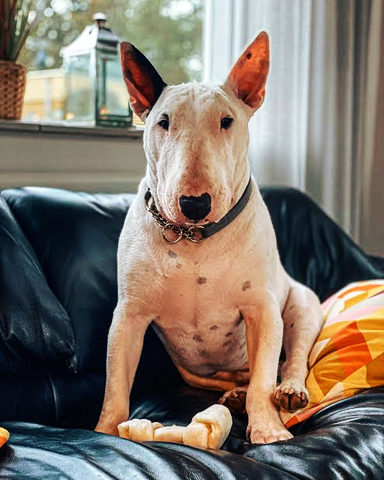
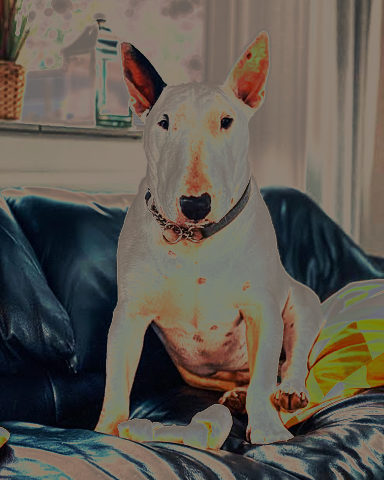
refactor(curves)!: fold solarize into curves
Both reverse the tones above the middle. `curves` gains the preset `solarize`
(master knots 0, 0.25, 0.5, 0.25, 0): the tent solarize traced, with a rounded
peak instead of a hard fold. At 480 px against solarize threshold 0.5 the
maximum difference is 0.037 (mean 0.013) and the two read the same.

BREAKING CHANGE: `solarize` is removed; use `curves` with
`preset = "solarize"`. `threshold` has no equivalent: move the curve's
`midtones`, `shadows` and `highlights` to fold elsewhere.

diff --git a/tests/effects/curves/test_curves.py b/tests/effects/curves/test_curves.py
@@ -4,6 +4,7 @@ import numpy as np
 import pytest
 
 from bullterrier_image.core import registry
+from bullterrier_image.recipe import Step
 
 NAME = "curves"
 ANCHORS = (0.0, 0.25, 0.5, 0.75, 1.0)  # where the five master points sit on the input axis, as documented
@@ -116,3 +117,23 @@ def test_a_curve_that_rises_and_falls_never_bulges_past_its_neighbouring_points(
         low, high = sorted(heights[left : left + 2])
         assert out[inside].min() >= low - 1e-6, MASTER_NAMES[left]  # an ordinary cubic through them would overshoot
         assert out[inside].max() <= high + 1e-6, MASTER_NAMES[left]
+
+
+@pytest.mark.parametrize(
+    ("value", "expected"),
+    [
+        pytest.param(0.0, 0.0, id="black stays black"),
+        pytest.param(0.25, 0.25, id="the shadows are untouched"),
+        pytest.param(0.5, 0.5, id="the curve peaks at the middle"),
+        pytest.param(0.75, 0.25, id="the highlights fold back to the shadows' height"),
+        pytest.param(1.0, 0.0, id="white goes to black"),
+    ],
+)
+def test_the_solarize_preset_folds_the_highlights_back_down_at_its_points(value: float, expected: float) -> None:
+    step = Step(NAME, preset="solarize")
+    np.testing.assert_allclose(registry.apply(NAME, grey(value), **step.params), expected, atol=1e-6)
+
+
+def test_the_solarize_preset_never_rises_above_the_middle_grey(photo: np.ndarray) -> None:
+    out = registry.apply(NAME, photo, **Step(NAME, preset="solarize").params)
+    assert out.max() <= 0.5 + 1e-6  # the master curve peaks at 0.5, whatever the picture

diff --git a/docs/effects-roadmap.md b/docs/effects-roadmap.md
@@ -23,7 +23,7 @@ it becomes a new effect only when it is a new idea. Planned merges of today's ef
 | `split_tone` ✓ | Tint shadows and highlights. | `fx.split_tone(shadow="#3a1bff")` |
 | `hue_shift` ✓ | Rotate hues, keep brightness. | `fx.hue_shift(hue=150)` |
 | `levels` ✓ | Black point, white point, gamma, output range (`output_black` lifts the blacks for a matte film look). | `fx.levels(black=0.05, white=0.95, gamma=1.1)` |
-| `curves` ✓ | Tone curve through control points. | `fx.curves(shadows=0.18, highlights=0.82)` |
+| `curves` ✓ | Tone curve through control points; preset `solarize` folds the highlights back dark. | `fx.curves(shadows=0.18, highlights=0.82)` |
 | `auto_levels` ✓ | Stretch to the full tonal range. | `fx.auto_levels(clip=0.005)` |
 | `equalize` ✓ | Adaptive histogram equalisation (CLAHE-style). | `fx.equalize(tiles=8, limit=2.0)` |
 | `white_balance` ✓ | Fix colour cast by temperature/tint or a grey point. | `fx.white_balance(temperature=-0.2)` |
@@ -32,7 +32,6 @@ it becomes a new effect only when it is a new idea. Planned merges of today's ef
 | `channel_mixer` ✓ | 3x3 matrix between channels. | `fx.channel_mixer(red_from_red=0, red_from_green=1, green_from_red=1, green_from_green=0)` |
 | `invert` ✓ (a preset of `levels`) | Negative. | `fx.levels(preset="invert")` |
 | `posterize` ✓ | Few tone levels per channel. | `fx.posterize(levels=4)` |
-| `solarize` ✓ | Invert above a threshold. | `fx.solarize(threshold=0.5)` |
 | `threshold` ✓ | Two-colour bitmap. | `fx.threshold(level=0.5, dark="#000", light="#fff")` |
 | `color_transfer` | Match the colour mood of a reference photo. | `fx.color_transfer(reference="ref.jpg")` |
 | `lut` (next) | Apply a `.cube` 3D colour lookup table: how grades are handed over. | `fx.lut(file="film.cube", amount=0.8)` |
